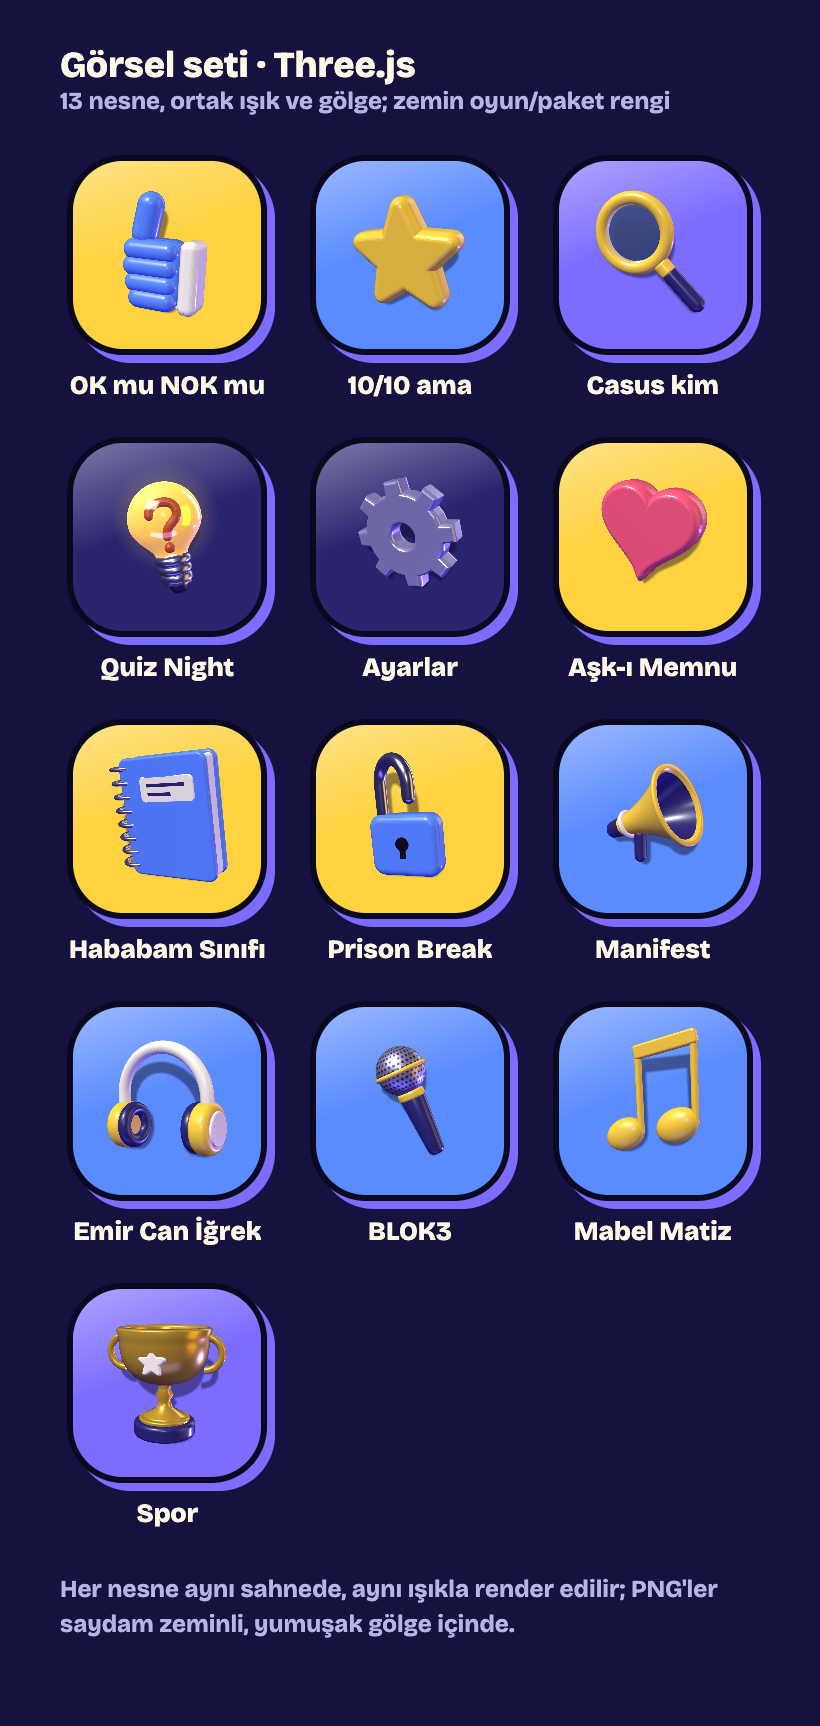
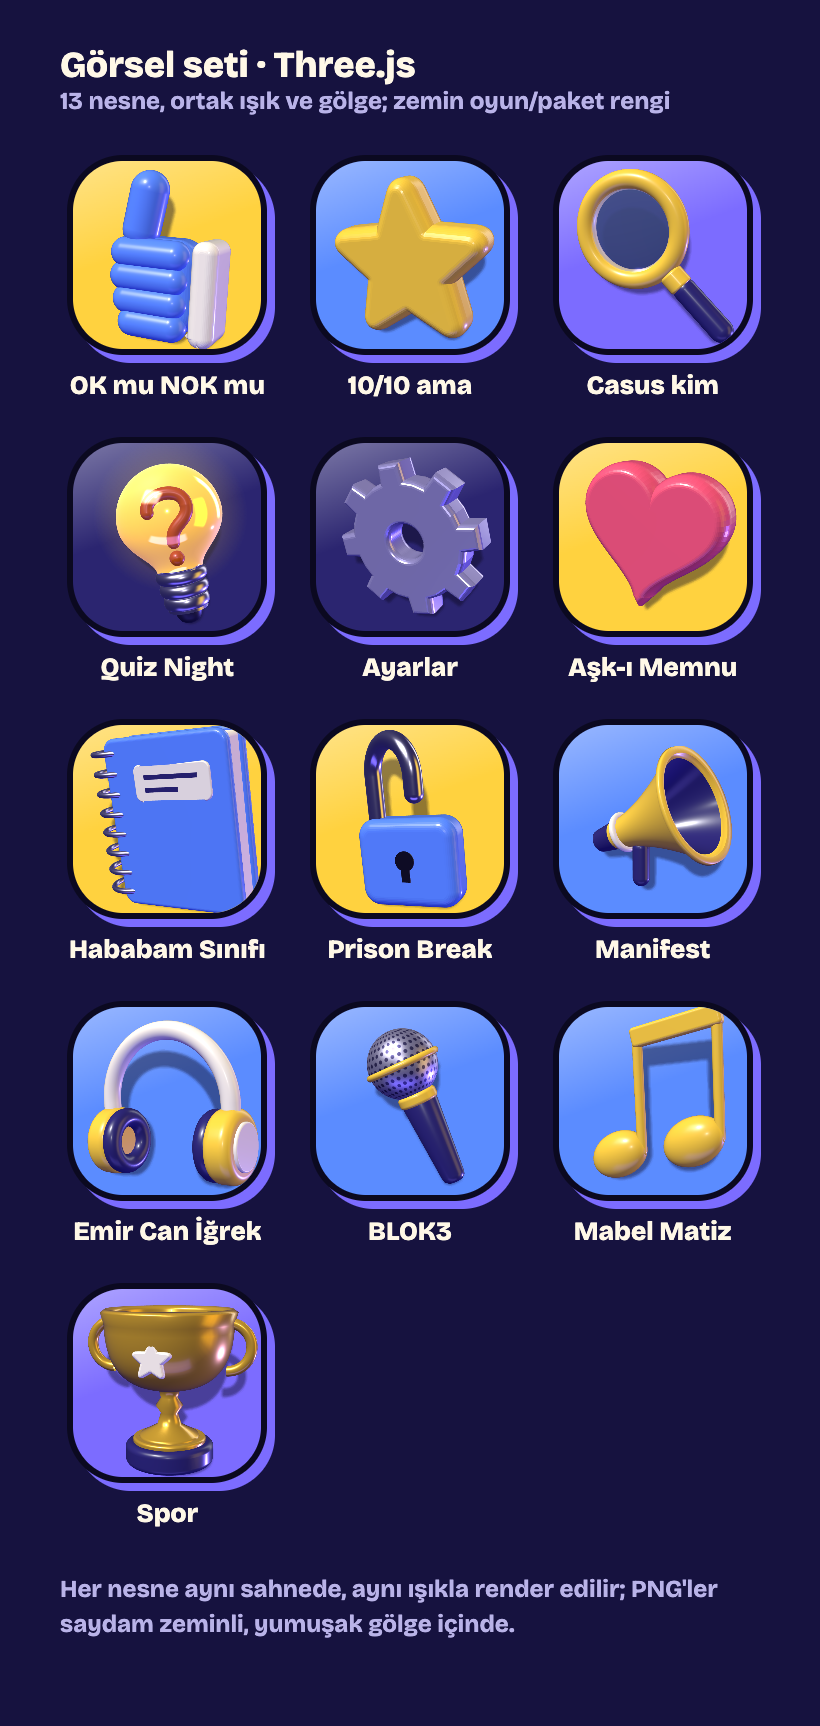
design(#290): ikon kaplama C ve paket ekranı b kesinleşti (Semih msg 1082)
- konsept: nesne ikonu doldurur ama kırpılmaz (ikon, widget, ayarlar); ana.png yeniden çekildi
- paket ekranı b kesin: paket-a (ızgara) kaldırıldı, paket-b → paket
- ornek/kaplama.png: A/B/C karşılaştırması (karar kaydı); set.png C oranıyla
- README ve PR açıklaması güncellendi

diff --git a/design/290-gorsel-yenileme/konsept.html b/design/290-gorsel-yenileme/konsept.html
@@ -6,7 +6,7 @@
 <title>Kafadar — #290 Görsel yenileme (2. tur)</title>
 <!-- #290 2. tur: ana ekran = konsept A (Semih, msg 1051); ikon = oyuna özel logo zemini + kendi çizdiğimiz 3D nesne (Semih, msg 1053: C; yöntem Three.js, msg 1069: B).
      Emoji yok. Görseller: gorsel/ (gorsel/sahne.html'den render, bkz. gorsel/LISANS.md). Logo zeminleri düz CSS (kendi çizimimiz).
-     Kullanım: ?ekran=ana | paket-a | paket-b (tek ekran, 390×844, PNG için). Tek dış kaynak: Google Fonts. -->
+     Kullanım: ?ekran=ana | paket (tek ekran, 390×844, PNG için). Tek dış kaynak: Google Fonts. -->
 <link href="https://fonts.googleapis.com/css2?family=Bricolage+Grotesque:opsz,wght@12..96,500;12..96,700;12..96,800&display=swap" rel="stylesheet">
 <style>
   :root { --kontur: #0B0920; --golge: #7C6CFF; --marka: #FFD23F; --marka-2: #5B8CFF; --krem: #FFF8E7;
@@ -31,7 +31,7 @@
     box-shadow: 5px 5px 0 var(--golge); color: var(--kontur); font-size: 27px; font-weight: 800; letter-spacing: -0.04em; }
   .kare { width: 48px; height: 48px; flex: none; border-radius: 14px; border: 3px solid var(--kontur); background: var(--yuzey); display: grid; place-items: center;
     font-weight: 800; font-size: 24px; color: var(--metin); }
-  .kare img { width: 34px; height: 34px; }
+  .kare img { width: 46px; height: 46px; margin: -4px; }
   .bilgi-i { width: 26px; height: 26px; border-radius: 50%; background: var(--marka); border: 3px solid var(--kontur); color: var(--kontur);
     display: inline-grid; place-items: center; font-size: 14px; font-weight: 800; flex: none; }
   .bilgi-yazili { height: 48px; display: inline-flex; align-items: center; gap: 8px; padding: 0 14px 0 9px; border-radius: 14px; border: 3px solid var(--kontur);
@@ -46,7 +46,7 @@
     background: var(--c); overflow: hidden; display: grid; place-items: center; flex: none; }
   .ikon::before { content: ''; position: absolute; inset: 0; background: var(--desen); }
   .ikon::after { content: ''; position: absolute; inset: 0; background: linear-gradient(160deg, rgba(255,255,255,.38), rgba(255,255,255,0) 44%); }
-  .ikon img { position: relative; z-index: 1; width: 100px; height: 100px; }
+  .ikon img { position: relative; z-index: 1; width: 166px; height: 166px; margin: -20px; } /* C (Semih msg 1082): nesne büyük, kırpılmadan */
   /* Oyunlar */
   .z-ok { --c: var(--marka); --desen: linear-gradient(135deg, transparent 48%, rgba(255,255,255,.6) 48% 52%, rgba(11,9,32,.16) 52%); }
   .z-onon { --c: var(--marka-2); --desen: repeating-conic-gradient(from 0deg at 50% 50%, rgba(255,255,255,.22) 0 10deg, transparent 10deg 20deg); }
@@ -65,7 +65,7 @@
   .widget { margin-top: 18px; flex: none; display: flex; align-items: center; gap: 12px; padding: 12px; border-radius: 26px; border: 4px solid var(--kontur);
     background: var(--yuzey); box-shadow: 6px 6px 0 var(--golge); }
   .widget .ikon { width: 62px; height: 62px; border-radius: 18px; border-width: 3px; box-shadow: none; }
-  .widget .ikon img { width: 46px; height: 46px; }
+  .widget .ikon img { width: 74px; height: 74px; margin: -9px; }
   .widget .yazi { flex: 1; min-width: 0; }
   .widget b { display: block; white-space: nowrap; font-size: 17px; line-height: 1.15; margin: 2px 0; }
   .widget small { font-size: 13px; font-weight: 700; color: var(--soluk); }
@@ -82,14 +82,6 @@
   .dock .ust-yazi { margin: 0 4px 7px; }
   /* ---- Paket ekranı ---- */
   .baslik { margin: 10px 0 12px; font-size: 30px; font-weight: 800; letter-spacing: -0.03em; flex: none; }
-  .bolum { margin: 20px 0 10px; flex: none; } .bolum .ust-yazi { color: var(--metin); }
-  .bolum small { display: block; margin-top: 2px; font-size: 12px; font-weight: 700; color: var(--soluk); }
-  .klasor { display: grid; grid-template-columns: repeat(3, 1fr); gap: 16px 12px; flex: none; }
-  .klasor .ikon { width: 92px; height: 92px; border-radius: 27px; border-width: 3px; box-shadow: 5px 5px 0 var(--golge); }
-  .klasor .ikon img { width: 66px; height: 66px; }
-  .klasor .z-spor { --desen: radial-gradient(circle, transparent 0 20px, rgba(255,255,255,.4) 20px 23px, transparent 23px),
-    linear-gradient(90deg, transparent calc(50% - 1.5px), rgba(255,255,255,.4) 0 calc(50% + 1.5px), transparent 0); }
-  .klasor .uyg b { margin-top: 9px; font-size: 14px; } .klasor .uyg small { font-size: 12px; }
   /* b: büyük 3D kart, kart zemini kategori logo zemini, nesne sağ üstten taşar */
   .kartlar { display: flex; flex-direction: column; gap: 22px; margin-top: 26px; flex: none; }
   .kart { position: relative; min-height: 108px; padding: 22px 116px 16px 16px; border-radius: 24px; border: 4px solid var(--kontur); box-shadow: 6px 6px 0 var(--golge);
@@ -152,13 +144,7 @@ const PAKET = [
 const paketUst = `${durum}${ust('<span class="kare" aria-label="Geri">←</span>', '<span class="bilgi-yazili"><span class="bilgi-i">i</span>Nasıl oynanır</span>')}
   <h2 class="baslik">Neyin fanısın?</h2>
   <div class="cipler" role="radiogroup" aria-label="Kategori"><span class="fcip sec">✓ Tümü</span><span class="fcip">Dizi & Film</span><span class="fcip">Müzik</span><span class="fcip">Spor</span></div>`;
-const paketA = `<section class="ekran"><div class="duvar"></div>${paketUst}
-  ${Object.entries(KAT).map(([k, c]) => `<div class="bolum"><div class="ust-yazi">${c.ad}</div><small>${c.not}</small></div>
-    <div class="klasor">${PAKET.filter(x => x.k === k).map(x => `<div class="uyg" role="button" aria-label="${x.baslik || `Ne kadar ${x.ad} fanısın?`}">${ikon('z-' + k, x.g)}
-      <b>${x.ad}</b>${x.koken ? `<small>${x.koken}</small>` : ''}</div>`).join('')}</div>`).join('')}
-  <div class="sol"></div>
-</section>`;
-const paketB = `<section class="ekran"><div class="duvar"></div>${paketUst}
+const paket = `<section class="ekran"><div class="duvar"></div>${paketUst}
   <div class="kartlar">${PAKET.map(x => `<div class="kart z-${x.k}" role="button"><b>${x.baslik || `Ne kadar ${x.ad} fanısın?`}</b>
     <div class="meta">${x.koken ? `<span class="rozet">${x.koken}</span>` : ''}${KAT[x.k].not.split(' · ').map(t => `<span class="nw">${t}</span>`).join(' · ')}</div>
     <img src="${G(x.g)}" alt=""></div>`).join('')}</div>
@@ -167,8 +153,7 @@ const paketB = `<section class="ekran"><div class="duvar"></div>${paketUst}
 
 const EKRAN = [
   { id: 'ana', ad: 'Ana ekran (A): 2 sütun ikon; logo zemini oyuna özel (OK mu NOK mu ikiye bölünmüş, 10/10 ışınlar, Casus kim spot ışığı, Quiz Night gece). ⓘ yok: ikona basılı tutunca tanıtım kartı açılır. Üstte Son oynanan (ilk açılışta Öne çıkan), altta dock\'ta kişi çipleri', html: ana },
-  { id: 'paket-a', ad: 'Paket ekranı a · Izgara: kategori başlıklı 3 sütun ikon (Dizi & Film film şeridi, Müzik plak, Spor saha çizgisi). "Ne kadar … fanısın?" sonraki ekranda', html: paketA },
-  { id: 'paket-b', ad: 'Paket ekranı b · Büyük 3D kartlar: kart zemini kategori logo zemini, nesne kartın sağ üstünden taşar. Başlık, rozet, not #261 ile aynı', html: paketB },
+  { id: 'paket', ad: 'Paket ekranı (b, Semih msg 1082) · Büyük 3D kartlar: kart zemini kategori logo zemini, nesne kartın sağ üstünden taşar. Başlık, rozet, not #261 ile aynı', html: paket },
 ];
 if (tek) document.body.classList.add('tek');
 document.getElementById('sahne').innerHTML = EKRAN.filter(e => !tek || e.id === tek)

diff --git a/design/290-gorsel-yenileme/gorsel/sahne.html b/design/290-gorsel-yenileme/gorsel/sahne.html
@@ -24,7 +24,7 @@
   .ikon { position: relative; width: 100px; height: 100px; border-radius: 28px; border: 3px solid var(--kontur); box-shadow: 4px 4px 0 var(--golge);
     background: var(--c); overflow: hidden; display: grid; place-items: center; }
   .ikon::after { content: ''; position: absolute; inset: 0; background: linear-gradient(160deg, rgba(255,255,255,.38), rgba(255,255,255,0) 44%); }
-  .ikon canvas { position: relative; z-index: 1; width: 84px; height: 84px; }
+  .ikon canvas { position: relative; z-index: 1; width: 120px; height: 120px; margin: -10px; }
   .uyg b { margin-top: 8px; font-size: 13px; font-weight: 800; line-height: 1.15; }
   .not { margin-top: 22px; font-size: 12px; font-weight: 700; line-height: 1.45; color: var(--soluk); }
   .tek canvas { display: block; width: 100vmin; height: 100vmin; }
@@ -282,7 +282,7 @@ try {
   } else {
     document.getElementById('izgara').innerHTML = LISTE.map(([id, ad, c]) =>
       `<div class="uyg"><div class="ikon" style="--c: var(${c})"><canvas data-id="${id}"></canvas></div><b>${ad}</b></div>`).join('');
-    document.querySelectorAll('canvas[data-id]').forEach(c => kopya(ciz(c.dataset.id), 168, c));
+    document.querySelectorAll('canvas[data-id]').forEach(c => kopya(ciz(c.dataset.id), 240, c));
   }
   pmrem.dispose();
 } catch (e) {

diff --git a/design/README.md b/design/README.md
@@ -15,7 +15,7 @@ Kurallar ve token'lar: [`TASARIM-SISTEMI.md`](TASARIM-SISTEMI.md). Her klasör b
 | `183-kisi-filtresi/` | #183 | Kişi çipleri, rozetsiz oyun kartı, boş liste (`ana.html`); ⓘ Nasıl oynanır (`b.html`) (v7.1) | ✅ Geçerli (B) | Ana ekranda varyant yok. ⓘ: B · Yazılı (Semih): oyun öncesi "ⓘ Nasıl oynanır" hapı, oyun içinde kısa ⓘ. A · Yalın `arsiv/`'de. |
 | `190-acilis/` | #190 | Açılış ekranı: logo, yükleme yüzdesi, söz (v8) | ✅ Geçerli (B) | B · Renkli çıkartma (Semih). `0` numaralı ekran sistem açılış görseli önerisidir. A · Sade ortalı `arsiv/`'de. |
 | `221-quiz-night/` | #221 | Quiz Night: tek başına, tek telefonda grup, oda farkları (Faz 2), paylaşım kartları (v9) | ✅ Geçerli (C) | C · Karma (Semih): oyun ekranları A · Sade liste, sonuç ve paylaşım B · Yarışma kartı. Grup/oda sonucu ve paylaşım kartı birinciyi 🏆 ile gösterir, ortak birincilikte bütün adlar (Semih, Telegram 925). A/B PNG'leri `arsiv/`'de; iki seçenekli şablon commit `842f826`. Paket ekranı kategori çipleri (v10, #261): `kategori.html`, A · Sade çip satırı + emoji seti 1 (Semih, Telegram 985). |
-| `290-gorsel-yenileme/` | #290 | Görsel yenileme (konsept): ana ekran A + paket ekranı a/b, `konsept.html` (`?ekran=ana`, `paket-a`, `paket-b`); ikon = oyuna özel logo zemini + kendi 3D nesnemiz (`gorsel/sahne.html`, Three.js; `gorsel/LISANS.md`) | 🗳 Seçim bekliyor | Ana ekran A (Semih, msg 1051), görsel kaynağı C (Semih, msg 1053), emoji yok. Paket ekranı a/b seçimi bekleniyor. Görseller kendimiz çizildi: yöntem B · Three.js (Semih, msg 1069); örnekler `ornek/quiz-a.png`, `ornek/quiz-b.png` (kodu 5509e03'te), set `gorsel/set.png`. Kesin tasarım (açık tema dahil) PRD v11 task'ında. |
+| `290-gorsel-yenileme/` | #290 | Görsel yenileme (konsept): ana ekran A + paket ekranı b, `konsept.html` (`?ekran=ana`, `paket`); ikon = oyuna özel logo zemini + kendi 3D nesnemiz (`gorsel/sahne.html`, Three.js; `gorsel/LISANS.md`), nesne ikonu doldurur ama kırpılmaz | ✅ Seçildi | Ana ekran A (Semih, msg 1051), görsel kaynağı C (msg 1053), emoji yok. Yöntem B · Three.js (msg 1069): örnekler `ornek/quiz-a.png`, `ornek/quiz-b.png` (kodu 5509e03'te), set `gorsel/set.png`. Kaplama C ve paket ekranı b (msg 1082): `ornek/kaplama.png`; paket a ızgarası 0c403d1'de. Kesin tasarım (açık tema dahil) PRD v11 task'ında. |
 | `arsiv/` | — | Elenen seçenekler | 🗄 Arşiv | Referans alınmaz. `arsiv/2-gorsel-yon/`: A · Neon Gece, C · Gece Dergisi. `arsiv/171-kategoriler/`: B · Sticker raf. `arsiv/183-kisi-filtresi/`: A · Yalın ⓘ. `arsiv/190-acilis/`: A · Sade ortalı. `arsiv/221-quiz-night/`: A · Sade liste ve B · Yarışma kartı PNG'leri (seçilen C ikisinin karması); #261 B · Kategori başlıkları ve C · Emojili kayan çipler (`kategori-b-koyu.png`, `kategori-c-koyu.png`; üç seçenekli şablon commit `f42cc4a`). |
 
 **Yeni tasarım eklerken:**
